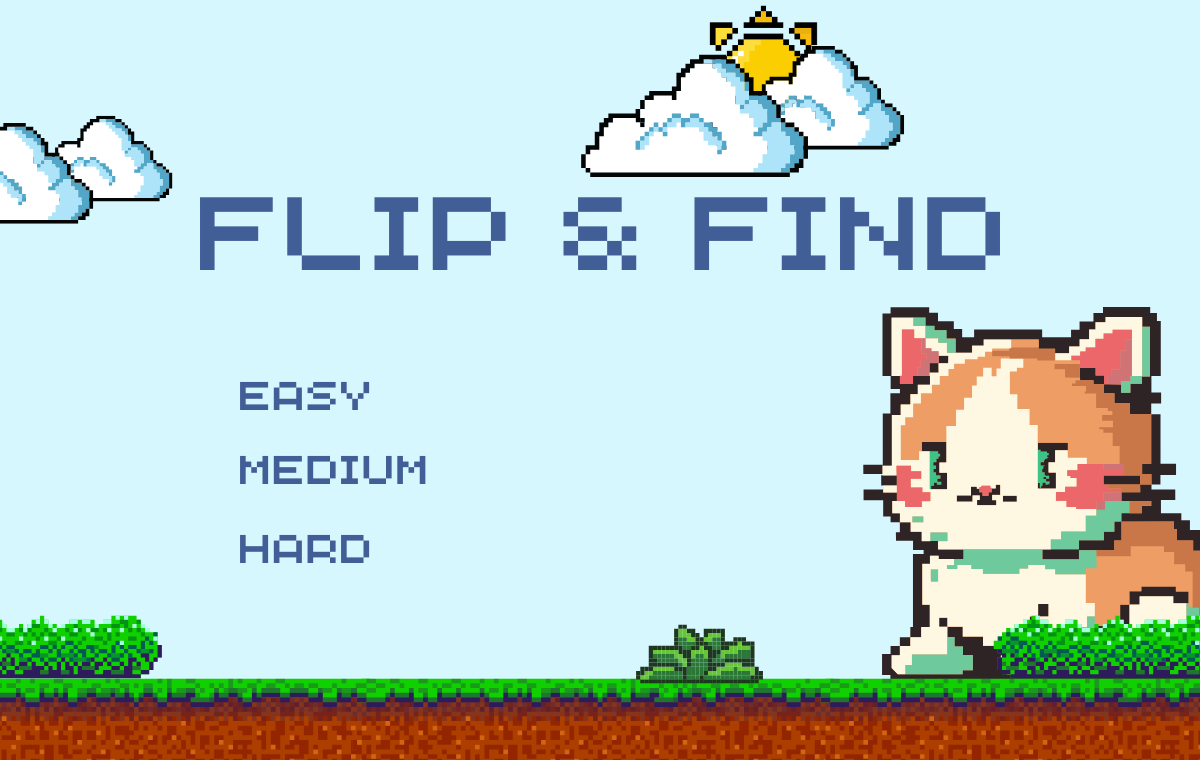
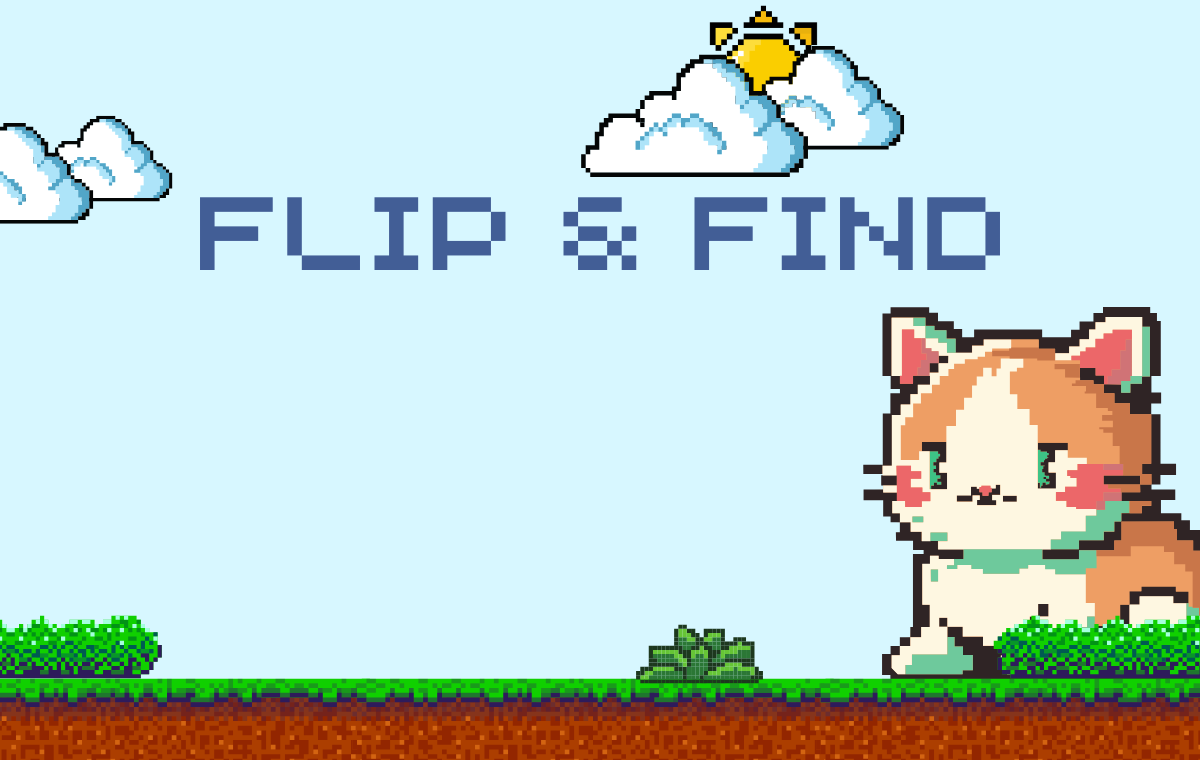
try to fix reset but the rest is reset :)

Changed region(s): [[0.185, 0.575, 0.37, 0.6355], [0.185, 0.4842, 0.3083, 0.5447], [0.185, 0.6961, 0.3083, 0.7566]]

diff --git a/main.py b/main.py
@@ -1,8 +1,8 @@
 import pygame
-from start_screen import main_menu  # Import main_menu from start_screen.py if needed
+from start_screen import main_menu
 from start_screen import MemoryCardGame
 from game_logic import GameLogic
-from end_screen import EndScreen
+from end_screen import EndScreen  # Import the EndScreen function
 
 # Initialize Pygame and Mixer
 pygame.init()
@@ -20,42 +20,54 @@ def main():
     SCREEN_HEIGHT = 760
     screen = pygame.display.set_mode((SCREEN_WIDTH, SCREEN_HEIGHT))
     pygame.display.set_caption("Flip and Find")
-    
+
     memory_game = MemoryCardGame()
     memory_game.load_assets()
 
-    # Call the main menu function to select difficulty
-    selected_level = main_menu(screen)
-    if not selected_level:
-        pygame.quit()
-        return
-    
-    # Initialize the Game object with selected difficulty and other assets
+    # Initialize assets dictionary
     assets = {
-        'memory_pictures': memory_game.memory_pictures, 
-        'pic_size': memory_game.pic_size,  # Size of cards
-        'padding': memory_game.padding,  # Padding between cards
+        'memory_pictures': memory_game.memory_pictures,
+        'pic_size': memory_game.pic_size,
+        'padding': memory_game.padding,
         'left_margin': memory_game.left_margin,
         'top_margin': memory_game.top_margin,
         'bg_image': memory_game.bg_image,
-        'bomb_image' : memory_game.bomb_image,
-        'GRAY' : memory_game.GRAY,
+        'bomb_image': memory_game.bomb_image,
+        'GRAY': memory_game.GRAY,
         'game_width': SCREEN_WIDTH,
         'game_height': SCREEN_HEIGHT
     }
 
-    # Create the Game instance
-    game = GameLogic(screen, selected_level, assets)
-    result = game.game_loop()
+    # Create the Game instance outside the loop
+    game = GameLogic(screen, None, assets)  # Initialize with None for difficulty
 
-    # Display end screen
-    next_action = EndScreen(screen, result, selected_level)
-    if next_action == "menu":
-        main()  # Go back to the main menu
-    elif next_action == "play_again":
-        # Replay the selected level
-        game = GameLogic(screen, selected_level, assets)
+    while True:  # Main game loop
+        # Call the main menu function to select difficulty
+        selected_level = main_menu(screen)
+        if not selected_level:
+            pygame.quit()
+            return
+
+        # Reinitialize the game logic for a new game
+        game.difficulty = selected_level
+        game.reset_game()
+
         result = game.game_loop()
+
+        # Handle game result and show end screen
+        if result:
+            action = EndScreen(screen, result, selected_level)
+            if action == "play_again":
+                continue  # Start a new game
+            elif action == "menu":
+                selected_level = main_menu(screen)  # Go back to the main menu
+                if not selected_level:  # Check if the user wants to exit
+                    pygame.quit()
+                    return
+            else:
+                break
+
+    pygame.quit()
 
 if __name__ == "__main__":
     main()

diff --git a/game_logic.py b/game_logic.py
@@ -6,9 +6,10 @@ from timer import timer
 class GameLogic:
     def __init__(self, screen, difficulty, assets):
         self.screen = screen
+        if difficulty is None:
+            difficulty = "easy"
         self.difficulty = difficulty
         self.assets = assets
-        self.rows, self.cols, self.num_bombs = self.get_level_config()
         self.cards = []
         self.flipped_cards = []
         self.matched_cards = set()
@@ -34,6 +35,7 @@ class GameLogic:
             return 5, 5, 3
 
     def load_cards(self):
+        self.rows, self.cols, self.num_bombs = self.get_level_config()
         # Get game_width from screen
         game_width = self.screen.get_width()
         game_height = self.screen.get_height()
@@ -48,10 +50,8 @@ class GameLogic:
             - self.assets["padding"]
         )
 
-        # self.left_margin = (game_width - board_width) // 2
         # Adjust left_margin to be closer to the left edge
-        self.left_margin = (game_width - board_width) // 4  # Reduced from //2 to //4 to shift left
-
+        self.left_margin = (game_width - board_width) // 4  # Reduced to //4 to shift left
         self.top_margin = (game_height - board_height) // 2  # Center vertically
 
         # Select images for pairs and bomb
@@ -195,3 +195,15 @@ class GameLogic:
                 return "win"
 
             pygame.display.update()
+
+    def reset_game(self):
+        """Resets the game state for a new game."""
+        self.cards = []
+        self.flipped_cards = []
+        self.matched_cards = set()
+        self.bomb_indices = []
+        self.bomb_shuffled = False
+        self.card_rects = []
+        self.flip_time = 0
+        self.game_timer.reset()  # Assuming you have a reset method in your timer class
+        self.load_cards()

diff --git a/timer.py b/timer.py
@@ -7,7 +7,7 @@ class timer:
         self.level = level
         self.time_limits = {"easy": 30, "medium": 50, "hard": 80}
         self.start_time = pygame.time.get_ticks()
-        self.time_limit = self.time_limits[level]
+        self.time_limit = self.time_limits.get(level, 60)  # Default time limit of 60 seconds
         self.time_left = self.time_limit
         self.font = pygame.font.Font('Assets/Pixelicious.ttf', 45)
 
@@ -28,3 +28,9 @@ class timer:
     def is_time_up(self):
         # Check if time is up
         return self.time_left <= 0
+    
+    def reset(self):
+        """Resets the timer to its initial state."""
+        self.start_time = pygame.time.get_ticks()
+        self.time_left = self.time_limit  # Reset time_left as well
+        self.time_up = False
